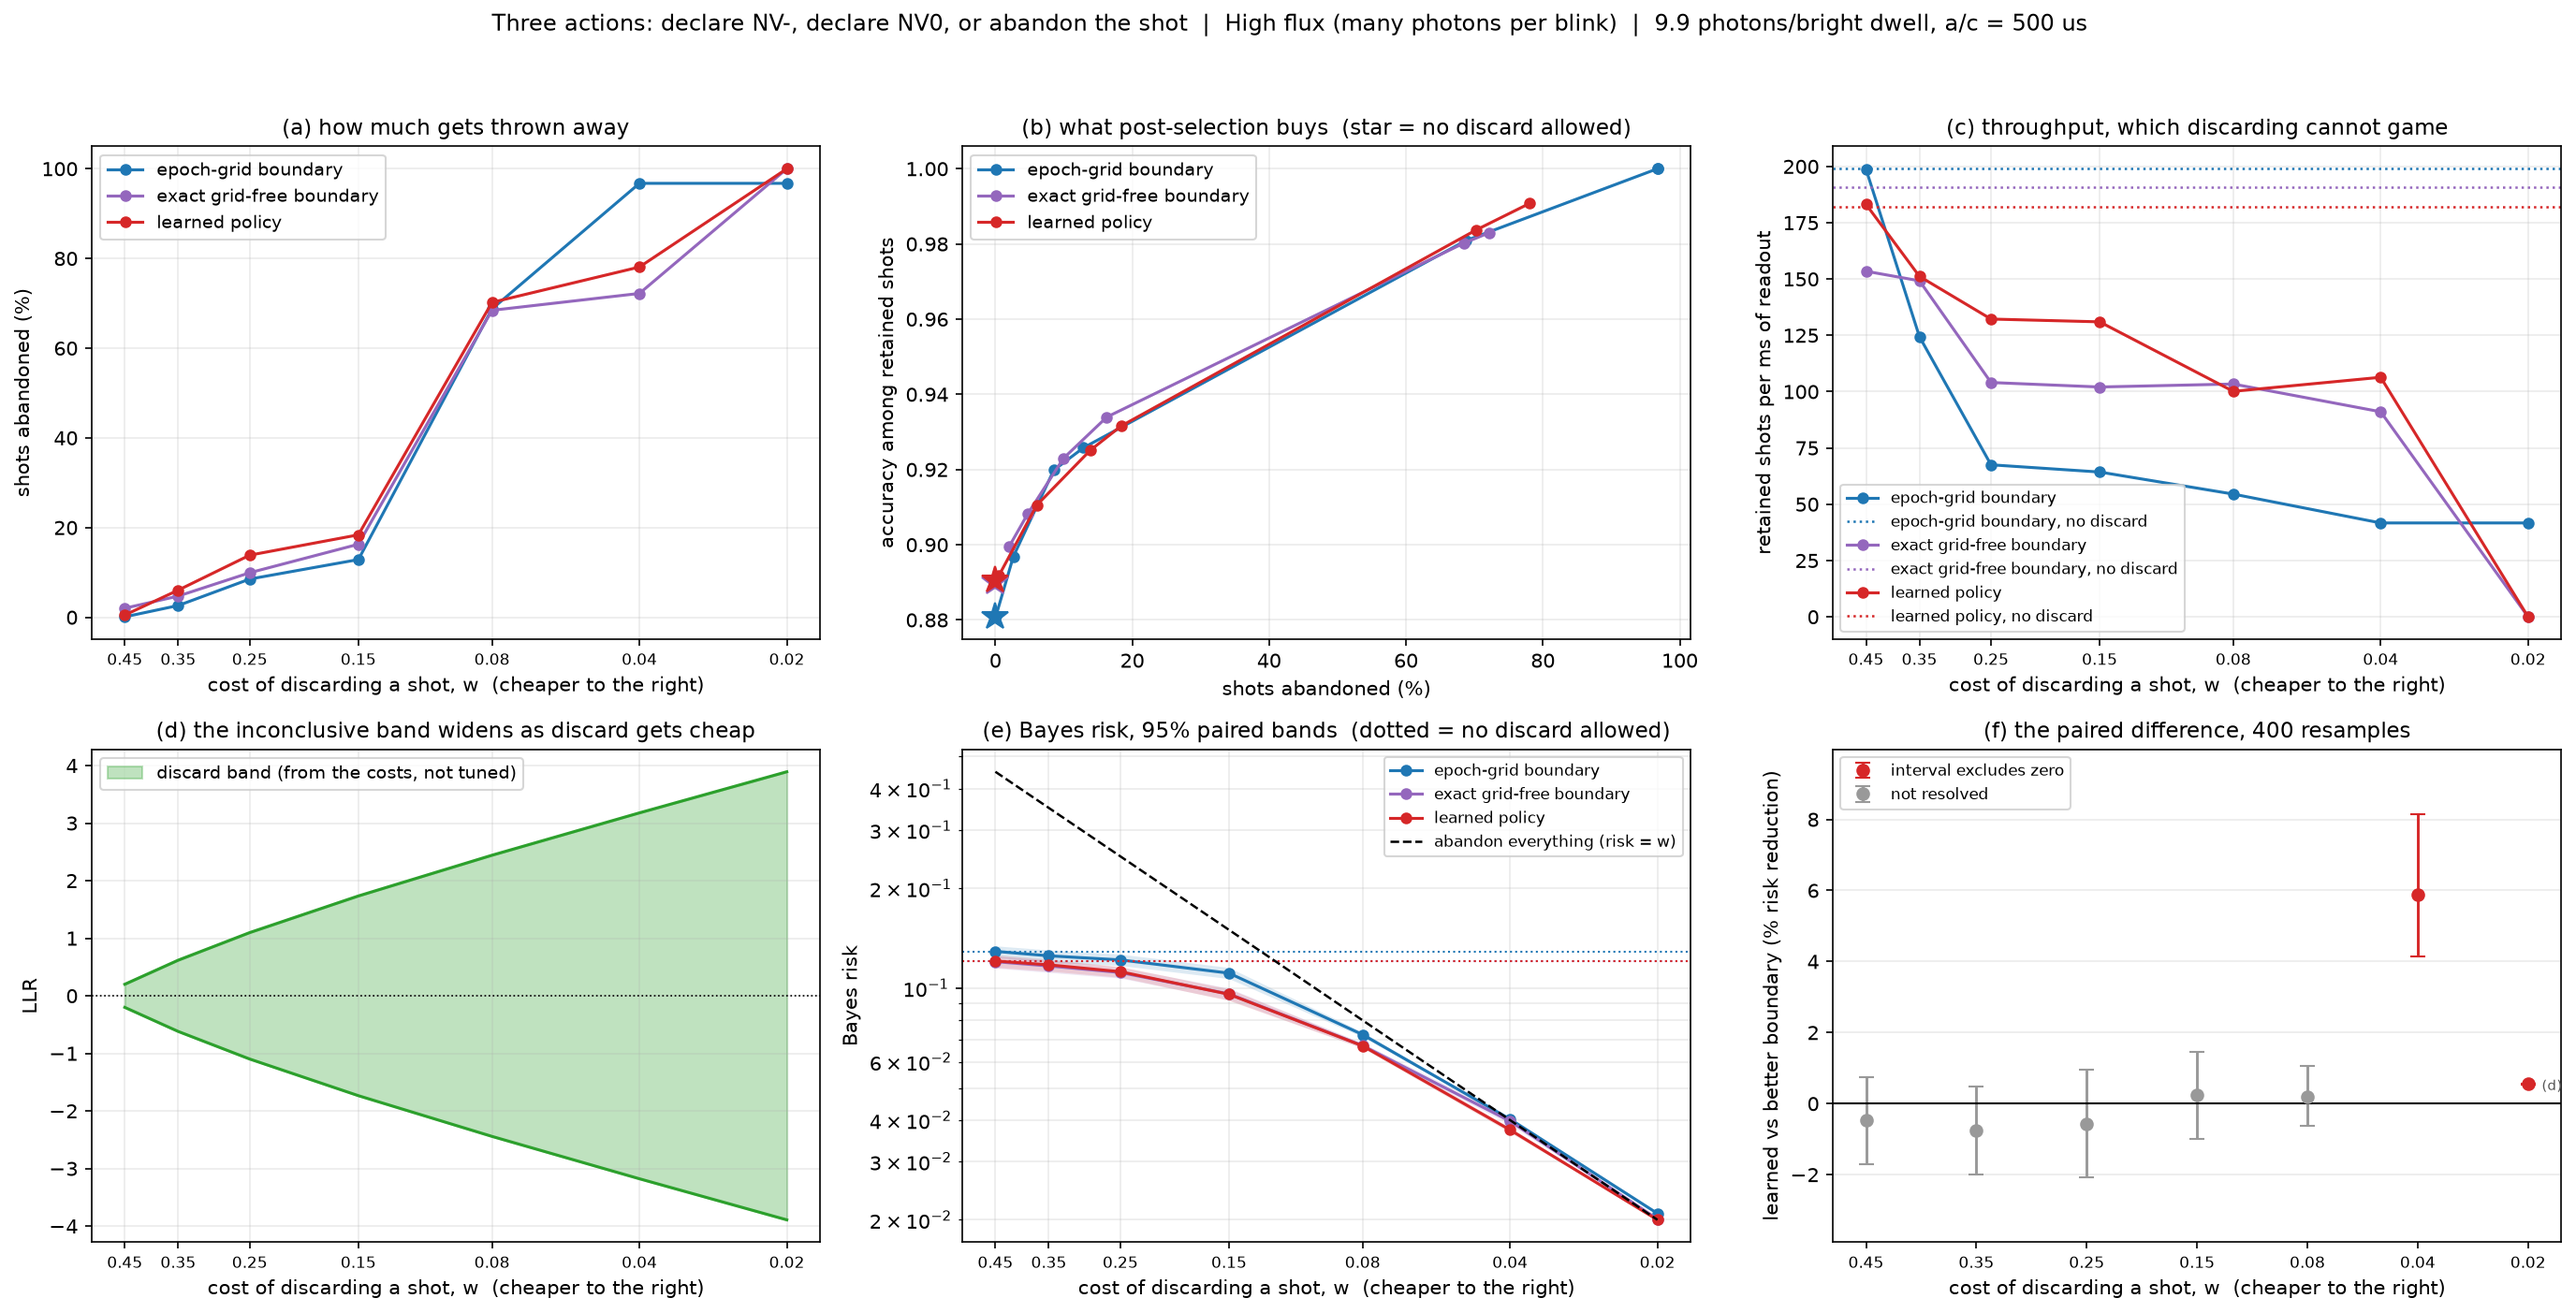
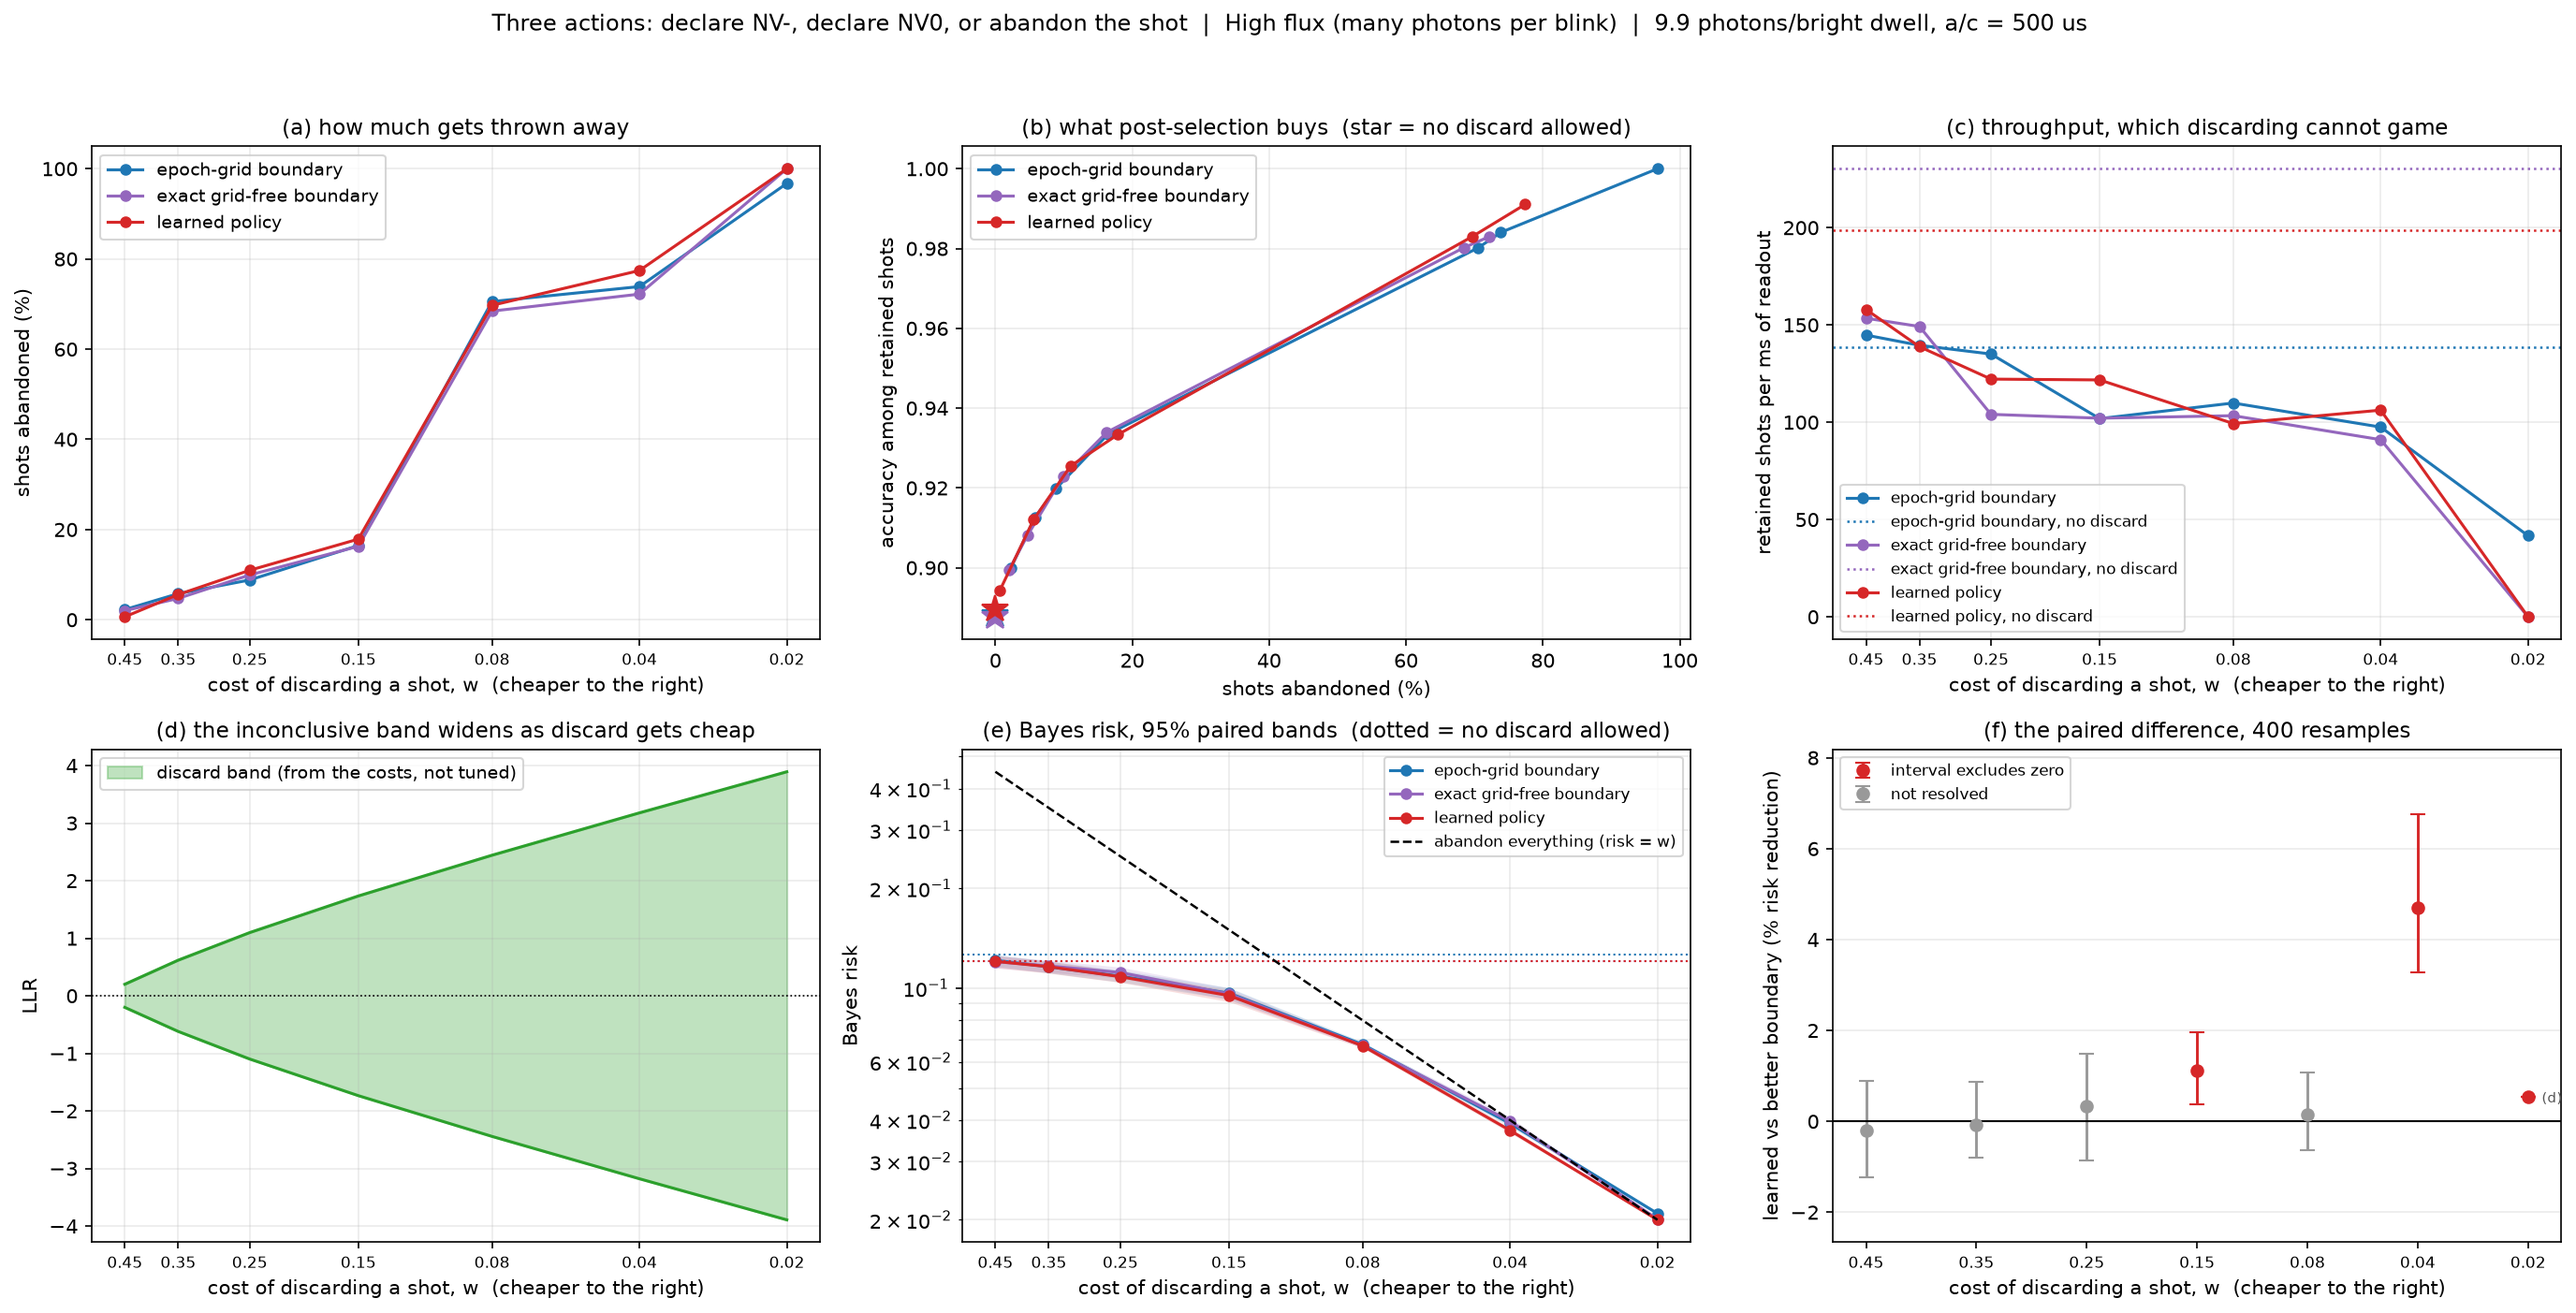
Re-run the discard sweep with the fixed rules, and rewrite its section
The learned policy now beats the better constant boundary at every w at
the moderate point, resolved (+1.6% to +9.5%); overall 8 resolved wins, 3
losses (the narrow-band sparse rows), 6 ties of 17. The earlier 'wash' came
from the non-Bayes cutoff and the missing payoff feature on one side and
the missing deadline axis on the other.

Claude-Session: https://claude.ai/code/session_01QPNqKJ2d1r7hY2FSJML7Zq

diff --git a/results/README.md b/results/README.md
@@ -354,81 +354,73 @@ At a/c = 500 µs, 7200 test shots per state, ideal detector:
 
 | point | w | band | discard | accuracy retained | yield/ms | risk |
 |---|---|---|---|---|---|---|
-| high flux | ∞ | two actions | 0% | 0.8906 | 182.3 | 0.1204 |
-| high flux | 0.25 | [−1.10, +1.10] | 14% | 0.9251 | 132.2 | 0.1122 |
-| high flux | 0.15 | [−1.73, +1.73] | **18%** | **0.9316** | 131.0 | 0.0959 |
-| high flux | 0.08 | [−2.44, +2.44] | 70% | 0.9837 | 100.1 | 0.0670 |
-| moderate | ∞ | two actions | 0% | 0.9419 | 59.1 | 0.0919 |
-| moderate | 0.15 | [−1.73, +1.73] | **11%** | **0.9637** | 59.9 | 0.0783 |
-| moderate | 0.08 | [−2.44, +2.44] | 17% | 0.9702 | 55.8 | 0.0680 |
-| sparse | ∞ | two actions | 0% | 0.7715 | 22.0 | 0.3196 |
+| high flux | ∞ | two actions | 0% | 0.8896 | 198.9 | 0.1205 |
+| high flux | 0.25 | [−1.10, +1.10] | 11% | 0.9255 | 122.2 | 0.1083 |
+| high flux | 0.15 | [−1.73, +1.73] | **18%** | **0.9334** | 121.8 | 0.0950 |
+| high flux | 0.08 | [−2.44, +2.44] | 70% | 0.9830 | 99.3 | 0.0670 |
+| moderate | ∞ | two actions | 0% | 0.9436 | 63.6 | 0.0879 |
+| moderate | 0.15 | [−1.73, +1.73] | **8%** | **0.9627** | 60.1 | 0.0766 |
+| moderate | 0.08 | [−2.44, +2.44] | 16% | 0.9704 | 56.4 | 0.0675 |
+| sparse | ∞ | two actions | 0% | 0.7715 | 22.0 | 0.3195 |
 | sparse | 0.25 | [−1.10, +1.10] | 88% | 0.9616 | 10.2 | 0.2481 |
 
 (learned policy; the full table with the constant-boundary rule alongside is
 in `results/demo/ideal/discard/discard_sweep.csv`)
 
 **The trade is good where information is plentiful and brutal where it is
-not.** At the moderate point, throwing away 11% of shots buys +0.022 in
-fidelity and costs nothing measurable in throughput. At high flux, 18% buys
-+0.041. At the sparse point nothing happens until w = 0.25 and then it jumps
+not.** At the moderate point, throwing away 8% of shots buys +0.019 in
+accuracy for a 6% throughput cost. At high flux, 18% buys +0.044. At the sparse point nothing happens until w = 0.25 and then it jumps
 straight to 88% discard for +0.19 — there is so little information per shot that the only way
 to be confident is to keep almost nothing. Post-selection is a way to spend
 surplus information, so it pays where there is surplus.
 
-### Correction: the learned policy's edge was mostly a handicapped opponent
+### The learned policy against the exact boundary
 
 The first version of this section compared the learned policy only against
 the **epoch-restricted** boundary rule and reported a 10–24% risk reduction
-at the moderate point. The exact grid-free SPRT — the strongest rule in this
-repo, and the one every main sweep uses — could not discard at all, because
-`run_sprt` took no economics. It can now, and the comparison changes:
+at the moderate point — almost all of it the epoch grid. A later version
+compared it against the exact grid-free SPRT and found a wash. Both were
+measured with the learned policy handicapped (a non-Bayes terminal cutoff
+in the two-action row, and a basis that could not represent "stop, nothing
+more to learn") and the epoch boundary handicapped the other way (no
+deadline axis). With both fixed:
 
-| point | w | epoch boundary | **exact boundary** | learned | learned vs exact | 95% CI |
+| point | w | epoch boundary | exact boundary | learned | learned vs better boundary | 95% CI |
 |---|---|---|---|---|---|---|
-| moderate | ∞ | 0.1025 | **0.0907** | 0.0919 | −1.4% | [−4.2, +1.2] ns |
-| moderate | 0.45 | 0.1024 | **0.0907** | 0.0885 | **+2.4%** | [+0.2, +4.8] |
-| moderate | 0.35 | 0.1021 | **0.0889** | 0.0884 | +0.5% | [−1.4, +2.5] ns |
-| moderate | 0.25 | 0.1013 | **0.0857** | 0.0863 | −0.6% | [−2.8, +1.3] ns |
-| moderate | 0.15 | 0.1009 | **0.0809** | 0.0783 | **+3.1%** | [+0.8, +5.2] |
-| moderate | 0.08 | 0.0762 | **0.0746** | 0.0680 | **+8.8%** | [+5.3, +12.4] |
-| high flux | 0.25 | 0.1218 | **0.1115** | 0.1122 | −0.6% | [−2.1, +1.0] ns |
-| high flux | 0.15 | 0.1111 | **0.0961** | 0.0959 | +0.3% | [−1.0, +1.5] ns |
-| high flux | 0.04 | 0.0403 | **0.0397** | 0.0374 | **+5.9%** | [+4.1, +8.1] |
-| sparse | ∞ | 0.3206 | **0.3170** | 0.3196 | **−0.8%** | [−1.3, −0.3] |
+| moderate | ∞ | 0.0913 | 0.0907 | **0.0879** | **+3.1%** | [+0.3, +6.0] |
+| moderate | 0.45 | 0.0919 | 0.0907 | **0.0881** | **+2.8%** | [+0.6, +5.2] |
+| moderate | 0.35 | 0.0889 | 0.0889 | **0.0863** | **+2.9%** | [+1.0, +4.7] |
+| moderate | 0.25 | 0.0846 | 0.0857 | **0.0832** | **+1.6%** | [+0.4, +2.9] |
+| moderate | 0.15 | 0.0785 | 0.0809 | **0.0766** | **+2.4%** | [+1.1, +3.7] |
+| moderate | 0.08 | 0.0787 | 0.0746 | **0.0675** | **+9.5%** | [+6.1, +12.9] |
+| high flux | 0.15 | 0.0967 | 0.0961 | **0.0950** | **+1.1%** | [+0.4, +2.0] |
+| high flux | 0.04 | 0.0391 | 0.0397 | **0.0372** | **+4.7%** | [+3.3, +6.8] |
+| high flux | 0.25 | 0.1087 | 0.1115 | 0.1083 | +0.3% | [−0.9, +1.5] ns |
+| sparse | ∞ | 0.3206 | **0.3170** | 0.3195 | **−0.8%** | [−1.3, −0.3] |
 
 (`ns` = the paired interval contains zero. 7200 test shots per state, 400
-stratified paired resamples; the resampling is over test shots with the
-tuned configuration held fixed, so the estimand is the risk of *this fitted
-rule* on the population.)
+stratified paired resamples; the tuned configuration is held fixed, so the
+estimand is the risk of *this fitted rule* on the population.)
 
-Almost the whole apparent advantage was the epoch grid, not the policy.
+Of the 17 non-degenerate (point, w) settings, **8 are resolved wins for the
+learned policy, 3 resolved losses, 6 ties**. The wins are all at the two
+denser points — every w at the moderate point — and the three losses are
+the sparse rows at w ≥ 0.35, where the band is too narrow to abstain and the
+comparison collapses onto the two-action one (there the constant boundary is
+within 0.3% of the exact optimum anyway; see the optimal-stopping section).
 
-**Corrected again, by putting intervals on it.** An earlier version of this
-paragraph read the point estimates as a scoreboard — "wins 7 of the 17
-non-degenerate settings, the exact boundary wins 10". Most of those margins
-are smaller than their own uncertainty. Of the 17, only **7 have a paired
-interval excluding zero**: four wins for the learned policy (+2.4%, +3.1%,
-+8.8% at the moderate point, +5.9% at high flux) and three losses (the three
-sparse rows at w ≥ 0.35, all −0.8%, where the band is too narrow to abstain
-and the comparison collapses onto the two-action one). The other ten are
-ties. "Wins 7, loses 10" was reporting the sign of noise.
+So the earlier "wash" was an artifact of the two handicaps, and the
+direction now matches the two-action result against the exact optimum: a
+constant boundary leaves a few percent on the table, and the learned policy
+recovers most of it. The largest single gain is at w = 0.08 at the moderate
+point, +9.5%, where the policy abandons 16% of shots against the boundary's
+70% and still comes out cheaper. (The exact DP is two-action only, so these
+rows carry no gap to the optimum.)
 
-The conclusion survives and is if anything cleaner: against the proper
-incumbent the learned policy is a **wash almost everywhere**, with a real
-but narrow advantage where the discard cost is low enough to matter. The
-clearest case is w ≈ 0.08 at the moderate point, +8.8% [+5.3, +12.4], where
-it abandons 17% of shots against the boundary's 70% and still comes out
-cheaper.
-
-This reinforces rather than undermines the earlier optimal-stopping finding:
-a tuned constant boundary with a calibrated offset is close to the Bayes
-optimum, and stays close once a third action is added. The place to spend
-effort is the filter, not the stopping rule.
-
-**The exact rule is also much faster**, which is where its advantage comes
-from: 13.0 µs against the epoch rule's 18.4 µs at the moderate point, and a
-throughput of 76.7 against 54.3 retained shots per ms. The epoch grid was
-costing the boundary rule real time, not just decision resolution.
+**The exact rule is still faster than the epoch rule**: 13.0 µs against
+15.0 µs at the moderate point, 76.7 against 66.8 retained shots per ms. With
+its own deadline axis the epoch rule's handicap shrank from 18.4 µs; what is
+left is the grid.
 
 ### Two structural results
 
@@ -437,7 +429,7 @@ costing the boundary rule real time, not just decision resolution.
 no optimal rule can exceed w.** That is the sharpest available check on the
 whole formulation, and it separates the rules cleanly. Across the 21 rows
 with a finite w, the learned policy violates the bound **0 times**, the
-epoch boundary **8** and even the exact grid-free boundary **7** — including
+epoch boundary **7** and even the exact grid-free boundary **7** — including
 every row at the sparse point, where the epoch rule pays 0.1550 against
 w = 0.15 and 0.0896 against w = 0.08. Neither boundary rule has any way to
 express "abandon immediately" — it cannot stop before its boundary is
